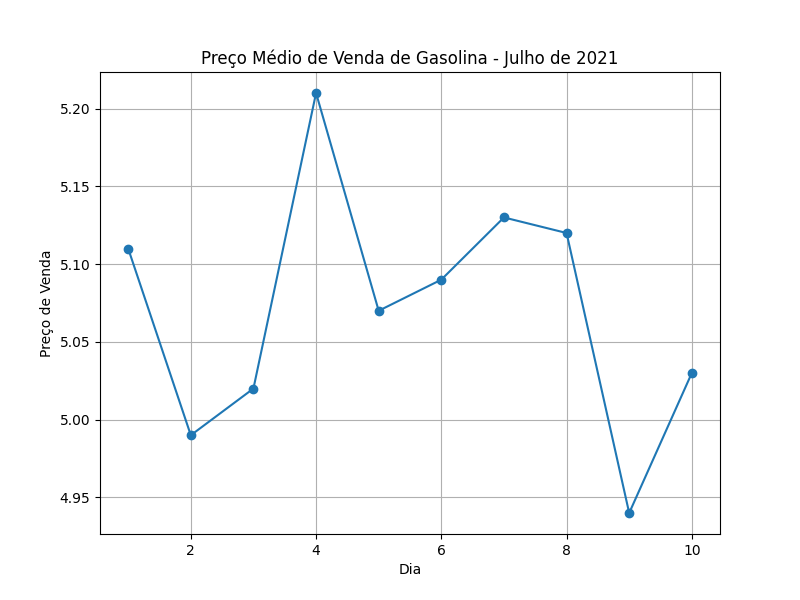
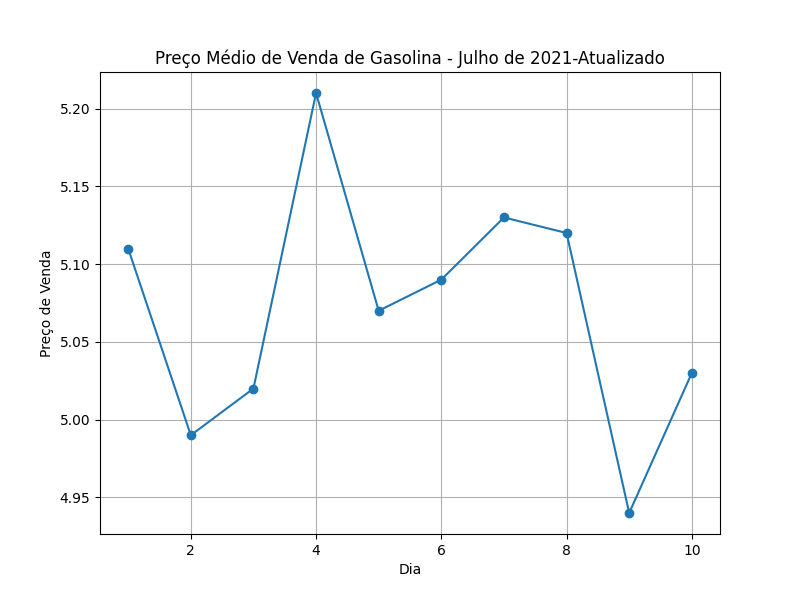
atualizações dos arquivo gasolina.csv, gasolina.py e gasolina.png

Changed region(s): [[0.1875, 0.06, 0.8438, 0.12]]

diff --git a/gasolina.py b/gasolina.py
@@ -1,0 +1,20 @@
+# código de geração do gráfico 
+import pandas as pd  # Importa a biblioteca Pandas para lidar com os dados
+import matplotlib.pyplot as plt  # Importa a biblioteca Matplotlib para criação de gráficos
+
+# Carregar os dados do arquivo CSV
+data = pd.read_csv('gasolina.csv')  # Lê o arquivo CSV e armazena os dados em um DataFrame do Pandas
+
+# Criar o gráfico de linha
+plt.figure(figsize=(8, 6))  # Define o tamanho do gráfico
+plt.plot(data['dia'], data['venda'], marker='o', linestyle='-')  # Cria o gráfico de linha com os dias no eixo x e vendas no eixo y
+plt.xlabel('Dia')  # Adiciona um rótulo ao eixo x
+plt.ylabel('Preço de Venda')  # Adiciona um rótulo ao eixo y
+plt.title('Preço Médio de Venda de Gasolina - Julho de 2021-Atualizado')  # Adiciona um título ao gráfico
+plt.grid(True)  # Adiciona grades ao gráfico
+
+# Salvar o gráfico como gasolina.png
+plt.savefig('gasolina.png')  # Salva o gráfico como um arquivo de imagem
+
+# Mostrar o gráfico
+plt.show()  # Exibe o gráfico na interface gráfica
